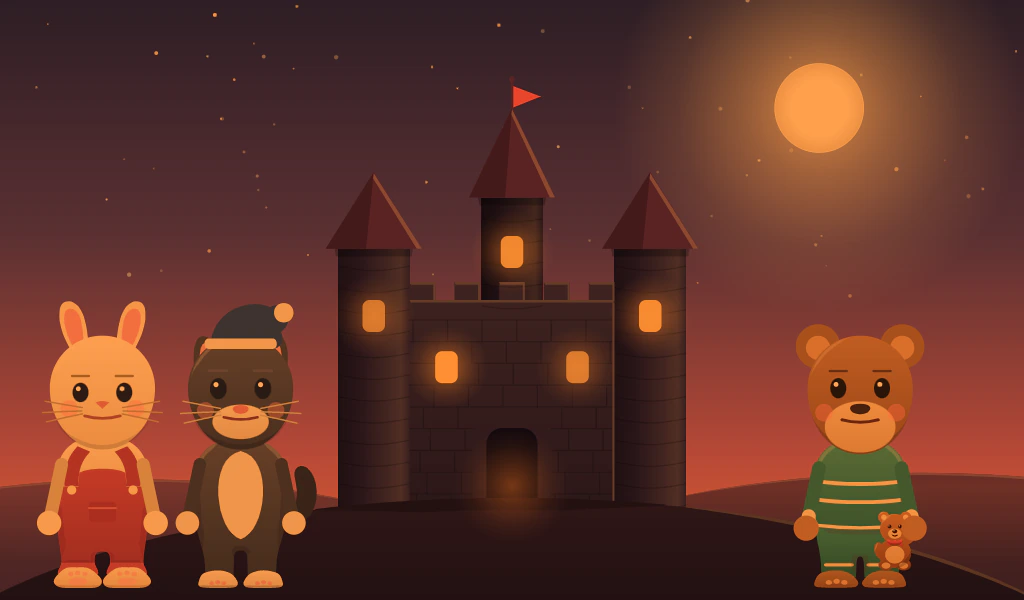
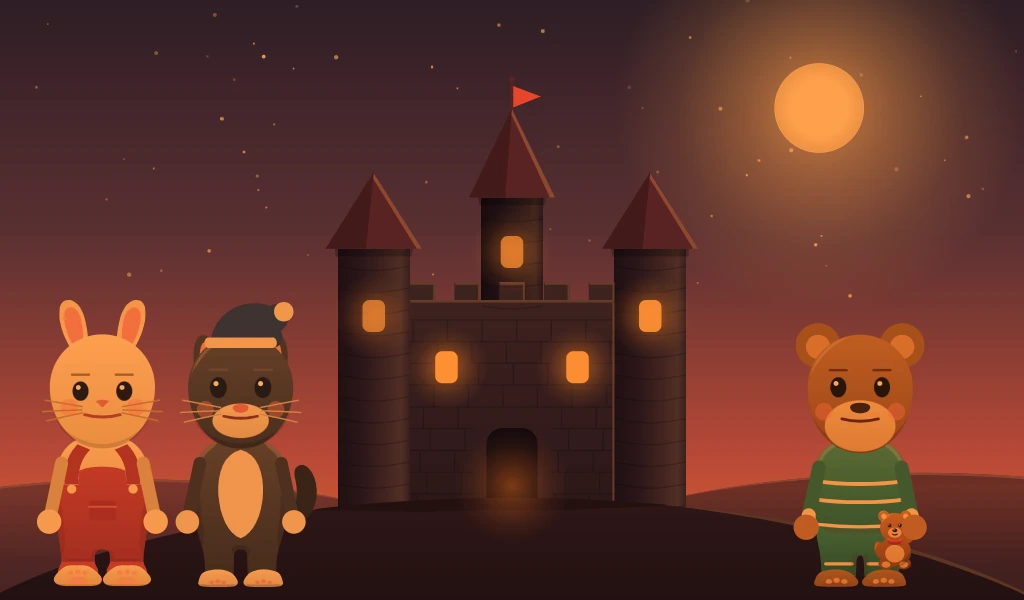
BeddyPals page: fresh screenshots from the 1.0 build; close-up shows the Simple controls
- All six pictures re-taken on the Fire 7 emulator from the build submitted to Amazon (1.0.0)
- Close-up: the Sleepy Bear on Night Sky with the Simple controls' helper squares showing (wave, talk, sad, surprised, happy, move)
- Make a puppet offers an owl where the duck was (app decision D-449): page text and picture description updated

diff --git a/beddypals.html b/beddypals.html
@@ -84,7 +84,7 @@ a{color:#FFB45C}a:hover{color:#FFD39E}
 <h2 style="margin: 0; font-family: 'Quicksand', 'Trebuchet MS', sans-serif; font-weight: 700; font-size: clamp(32px, 4vw, 44px); line-height: 1.15; color: #F4E7D4; text-align: center">You tell the story. BeddyPals sets the stage.</h2>
 
 <div style="display: flex; flex-wrap: wrap; align-items: center; gap: 40px 56px">
-<figure style="margin: 0; flex: 1 1 520px; min-width: 0"><img src="images/02-closeup.webp" width="1024" height="600" alt="Close-up of the Sleepy Bear puppet mid-word, filling the screen" style="display: block; width: 100%; height: auto; border-radius: 20px; border: 1px solid #4A3640"></figure>
+<figure style="margin: 0; flex: 1 1 520px; min-width: 0"><img src="images/02-closeup.webp" width="1024" height="600" alt="Close-up of the Sleepy Bear puppet mid-word under a starry sky, with helper squares for the edge controls: wave, talk, sad, surprised and happy" style="display: block; width: 100%; height: auto; border-radius: 20px; border: 1px solid #4A3640"></figure>
 <div style="flex: 1 1 340px; min-width: 0; display: flex; flex-direction: column; gap: 14px">
 <p style="margin: 0; font-size: 14px; font-weight: 700; letter-spacing: 0.08em; text-transform: uppercase; color: #FFB45C">Puppeteering</p>
 <h3 style="margin: 0; font-family: 'Quicksand', 'Trebuchet MS', sans-serif; font-weight: 700; font-size: 32px; line-height: 1.2; color: #F4E7D4">Tap, and the puppet talks.</h3>
@@ -111,14 +111,14 @@ a{color:#FFB45C}a:hover{color:#FFD39E}
 </div>
 
 <div style="display: flex; flex-direction: row-reverse; flex-wrap: wrap; align-items: center; gap: 40px 56px">
-<figure style="margin: 0; flex: 1 1 520px; min-width: 0"><img src="images/04-make-a-puppet.webp" width="1024" height="600" alt="The puppet maker: choose a child, baby, parent, grandparent, teddy bear, bunny or duck, then skin tone, hair, glasses and pajamas" style="display: block; width: 100%; height: auto; border-radius: 20px; border: 1px solid #4A3640"></figure>
+<figure style="margin: 0; flex: 1 1 520px; min-width: 0"><img src="images/04-make-a-puppet.webp" width="1024" height="600" alt="The puppet maker: choose a child, baby, parent, grandparent, teddy bear, bunny or owl, then skin tone, hair, glasses and pajamas" style="display: block; width: 100%; height: auto; border-radius: 20px; border: 1px solid #4A3640"></figure>
 <div style="flex: 1 1 340px; min-width: 0; display: flex; flex-direction: column; gap: 14px">
 <div style="display: flex; align-items: center; gap: 12px">
 <p style="margin: 0; font-size: 14px; font-weight: 700; letter-spacing: 0.08em; text-transform: uppercase; color: #FFB45C">Make your own</p>
 <span style="padding: 2px 12px; border-radius: 999px; border: 1px solid #FFB45C; font-size: 13px; font-weight: 700; color: #FFB45C">Premium</span>
 </div>
 <h3 style="margin: 0; font-family: 'Quicksand', 'Trebuchet MS', sans-serif; font-weight: 700; font-size: 32px; line-height: 1.2; color: #F4E7D4">A puppet that looks like your child.</h3>
-<p style="margin: 0; font-size: 18px; line-height: 1.65; color: #CDB89E">Make up to ten puppets: a child, baby, parent, grandparent, teddy bear, bunny or duck, each with their own skin tone, hair, glasses and pajamas. Then write six-page stories starring them. No photos, no camera, and what you make stays with your family.</p>
+<p style="margin: 0; font-size: 18px; line-height: 1.65; color: #CDB89E">Make up to ten puppets: a child, baby, parent, grandparent, teddy bear, bunny or owl, each with their own skin tone, hair, glasses and pajamas. Then write six-page stories starring them. No photos, no camera, and what you make stays with your family.</p>
 </div>
 </div>
 
